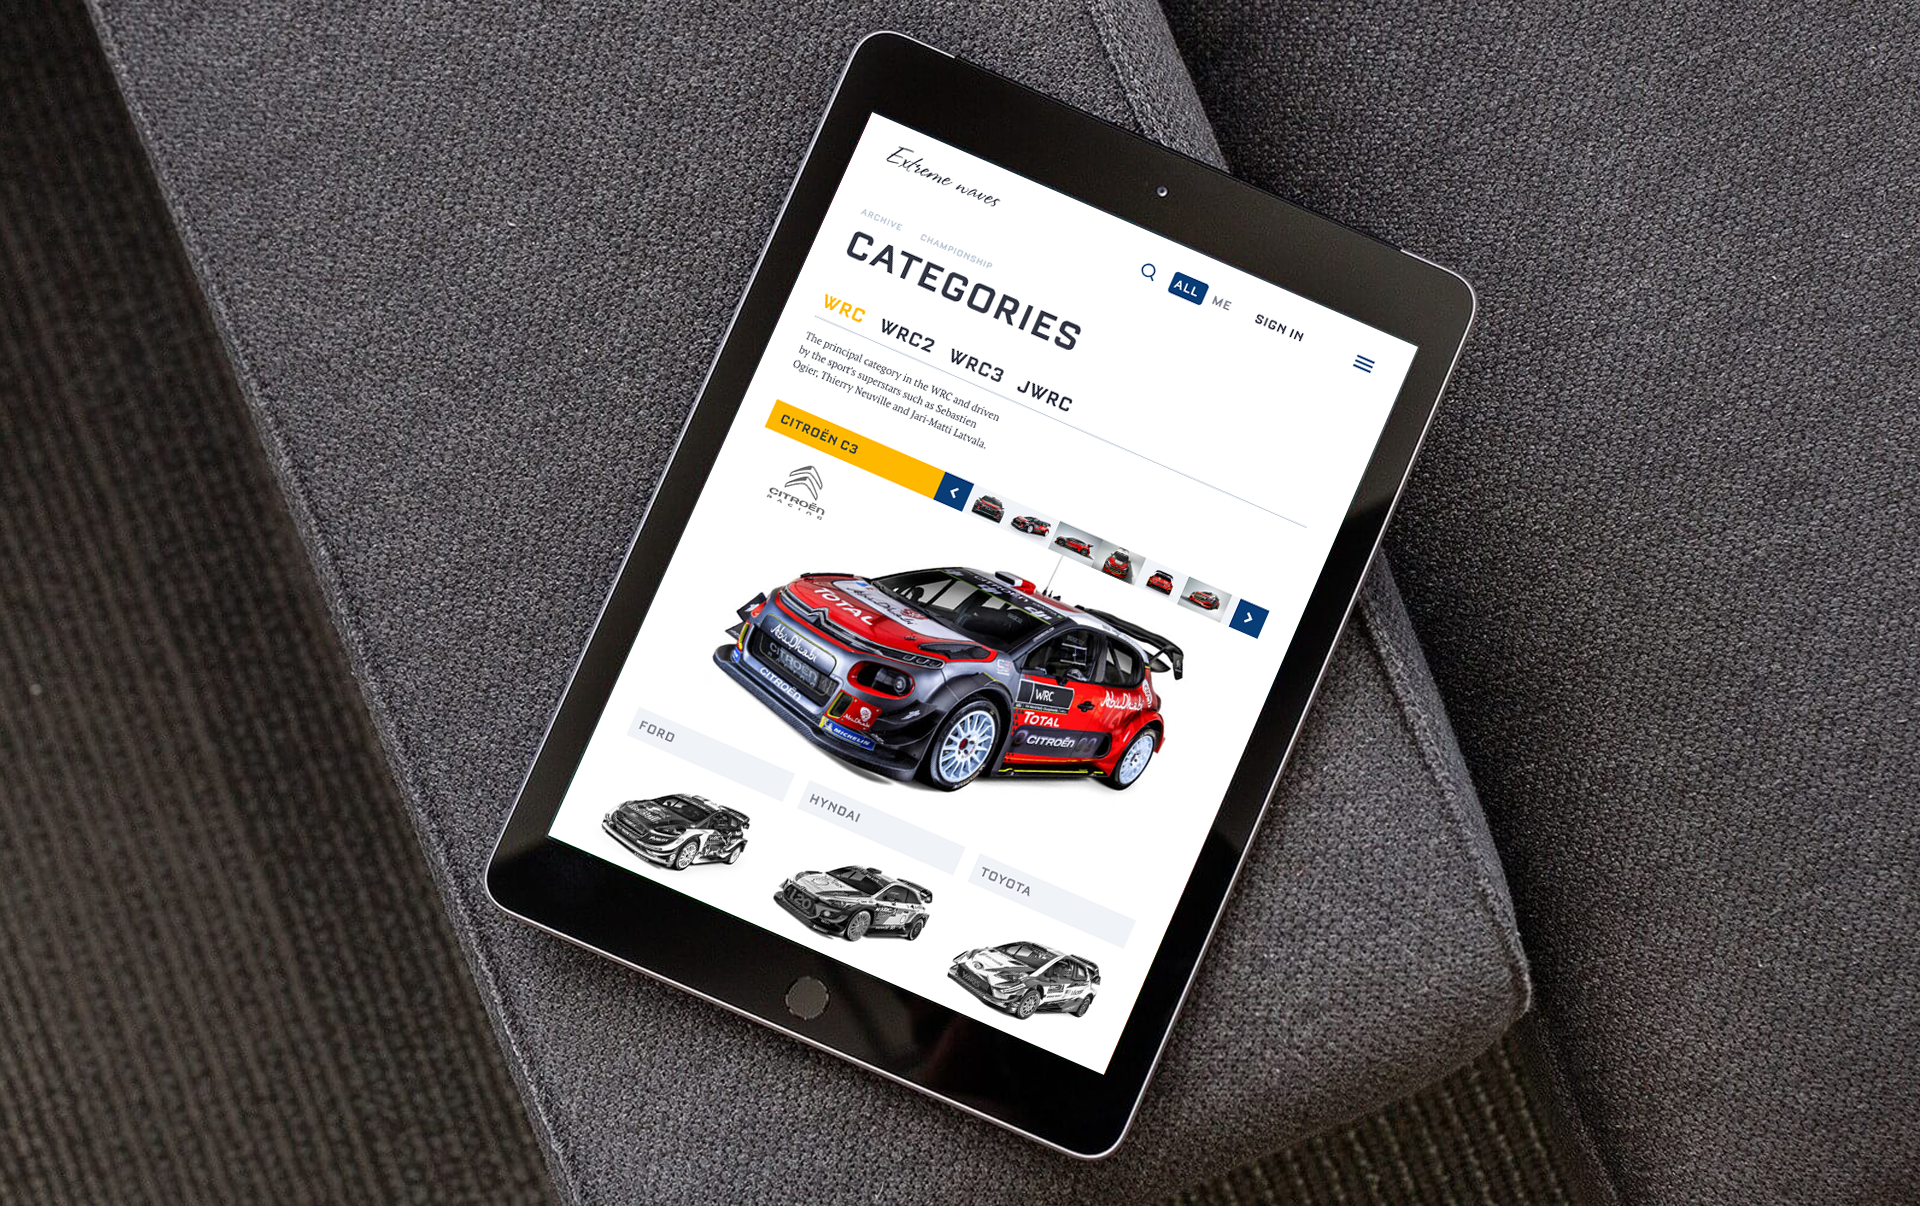
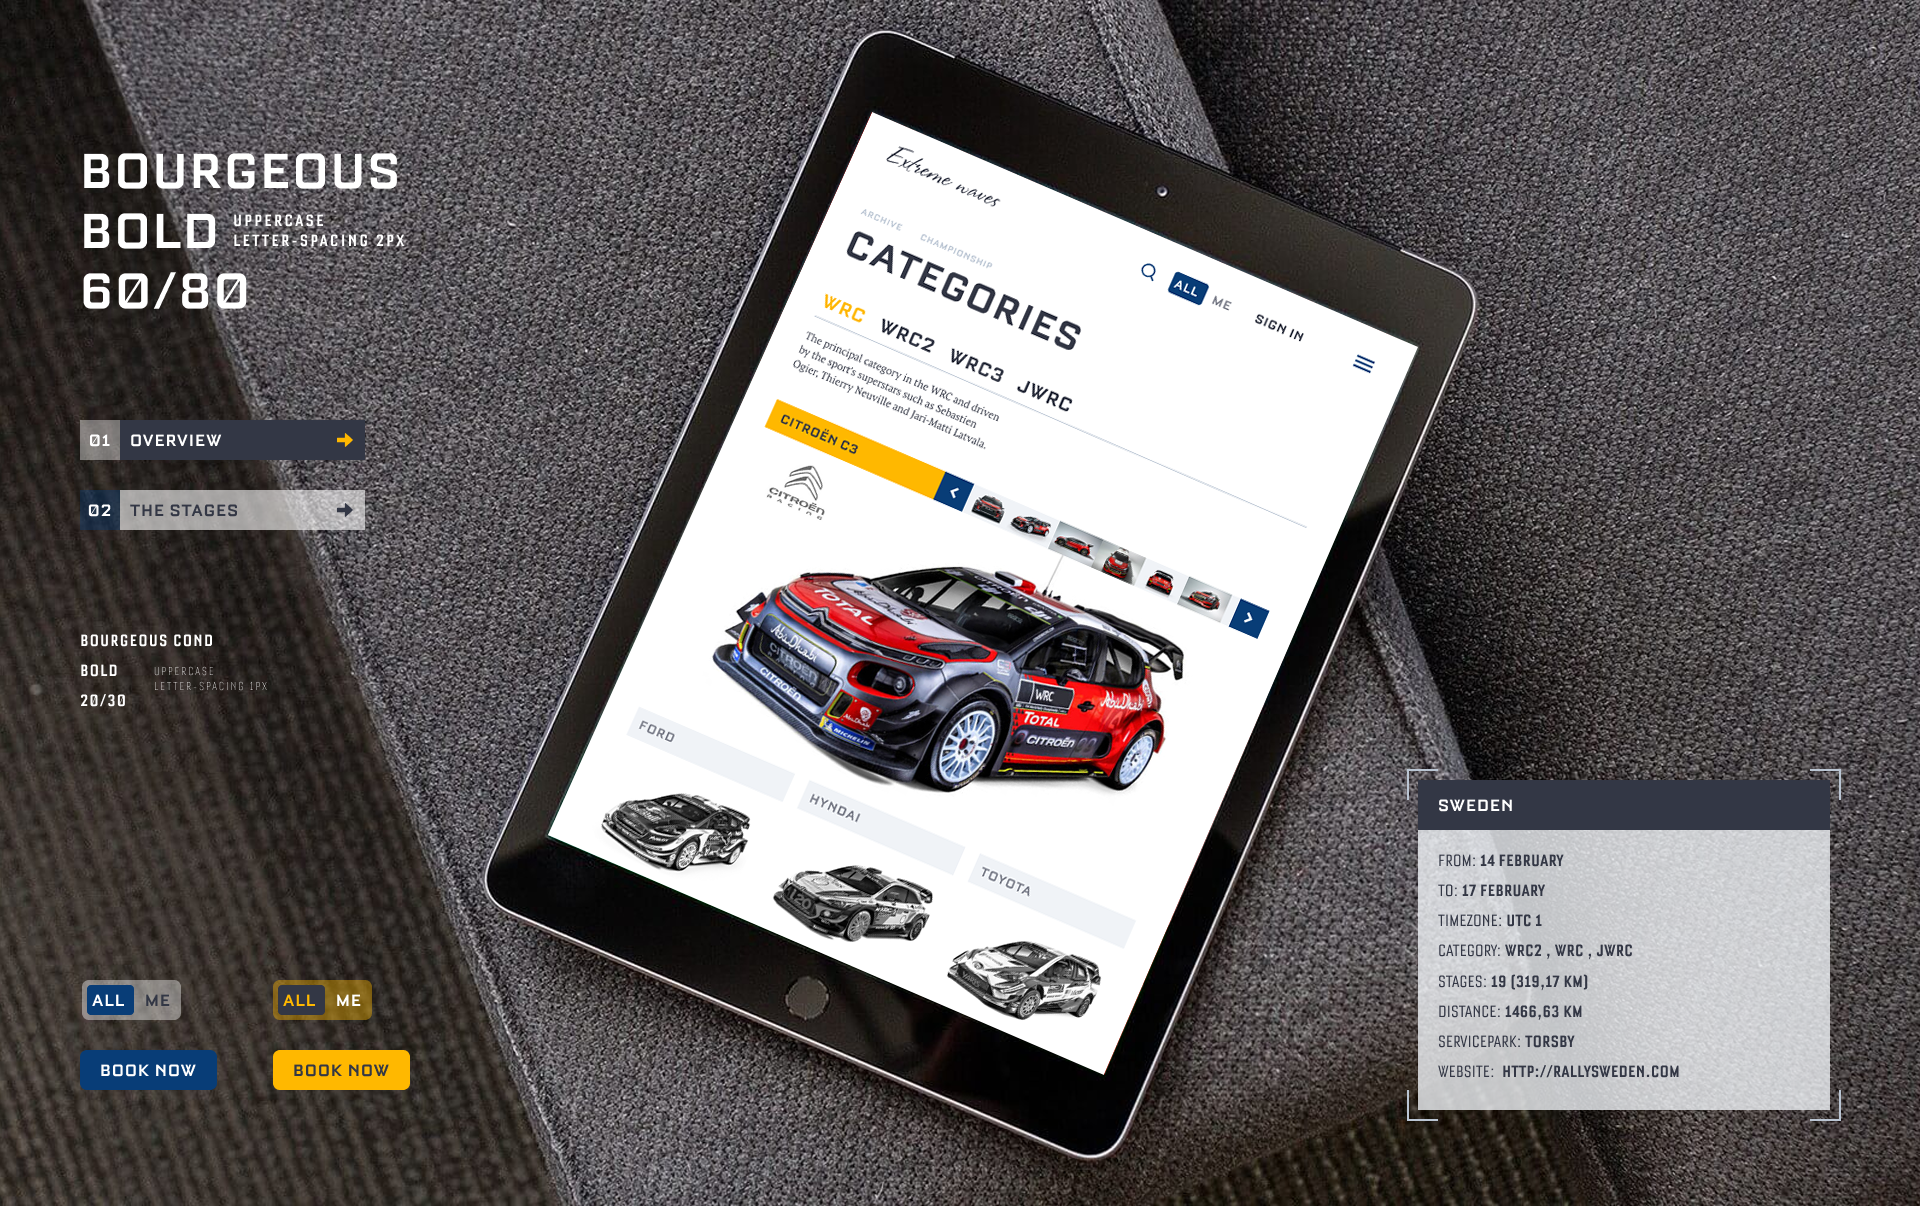
Last one

diff --git a/src/templates/index.html b/src/templates/index.html
@@ -5,6 +5,29 @@
   <meta http-equiv="X-UA-Compatible" content="IE=edge">
   <title>Page Title</title>
 
+  <style>
+
+    .preloader {
+      position: fixed;
+      top: 0;
+      left: 0;
+      right: 0;
+      bottom: 0;
+      background-image: url('../images/dot_pattern_300.png');
+      display: flex;
+    }
+
+    .preloader .loader-text {
+      font-family: 'Lato' sans-serif;
+      margin: auto;
+      font-size: 14px;
+      font-weight: 400;
+      line-height: 20px;
+      text-transform: uppercase;
+      letter-spacing: 2px;
+    }
+  </style>
+
   <link href="https://fonts.googleapis.com/css?family=Lato:400,700" rel="stylesheet">
   <script type="text/javascript" src="https://unpkg.com/feather-icons"></script>
 
@@ -50,8 +73,8 @@
         <div class="col-md-4">
           <a href="/project-extreme-wave.html">
             <div class="grid-item exteme-wave"></div>
-            <h3>Google - The Performing Arts</h3>
-            <p>Interactive</p>
+            <h3>Extreme Waves</h3>
+            <p>Web design</p>
           </a>
         </div>
         <div class="col-md-4">
@@ -89,29 +112,6 @@
 
   </div>
 
-
-  <style>
-
-    .preloader {
-      position: fixed;
-      top: 0;
-      left: 0;
-      right: 0;
-      bottom: 0;
-      background-image: url('../images/dot_pattern_300.png');
-      display: flex;
-    }
-
-    .preloader .loader-text {
-      font-family: 'Lato' sans-serif;
-      margin: auto;
-      font-size: 14px;
-      font-weight: 400;
-      line-height: 20px;
-      text-transform: uppercase;
-      letter-spacing: 2px;
-    }
-  </style>
   <div class="preloader">
     <h2 class="loader-text"><i class="pr-2" data-feather="clock"></i>Loading...</h2>
   </div>

diff --git a/src/templates/project-extreme-wave.html b/src/templates/project-extreme-wave.html
@@ -27,6 +27,9 @@
       <img class="image" src="../images/Slide_01/slide_04.png" alt="">
     </div>
     <div class="images-container">
+      <img class="image" src="../images/Slide_01/slide_06.png" alt="">
+    </div>
+    <div class="images-container">
       <img class="image" src="../images/Slide_01/slide_05.png" alt="">
     </div>
   </div>
